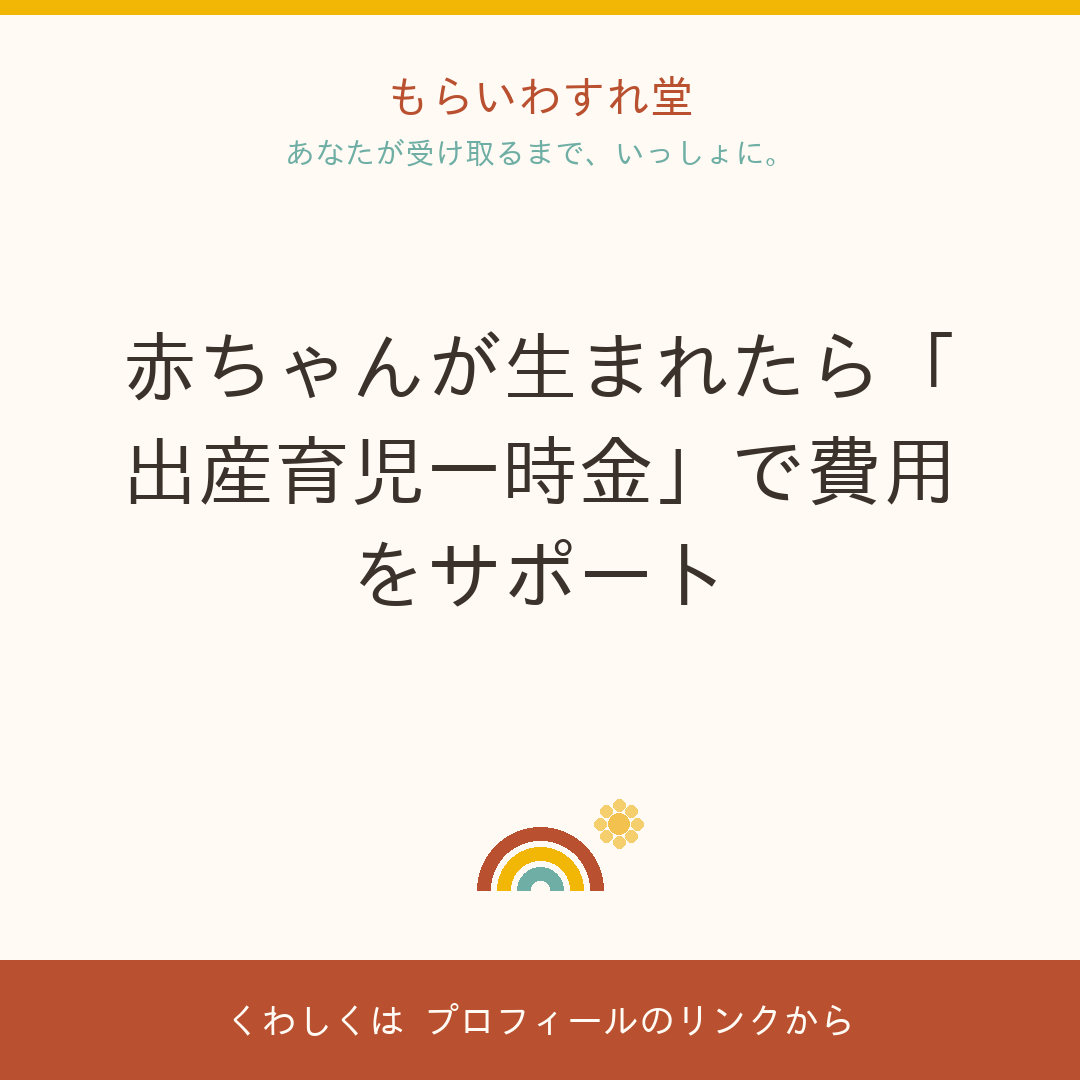
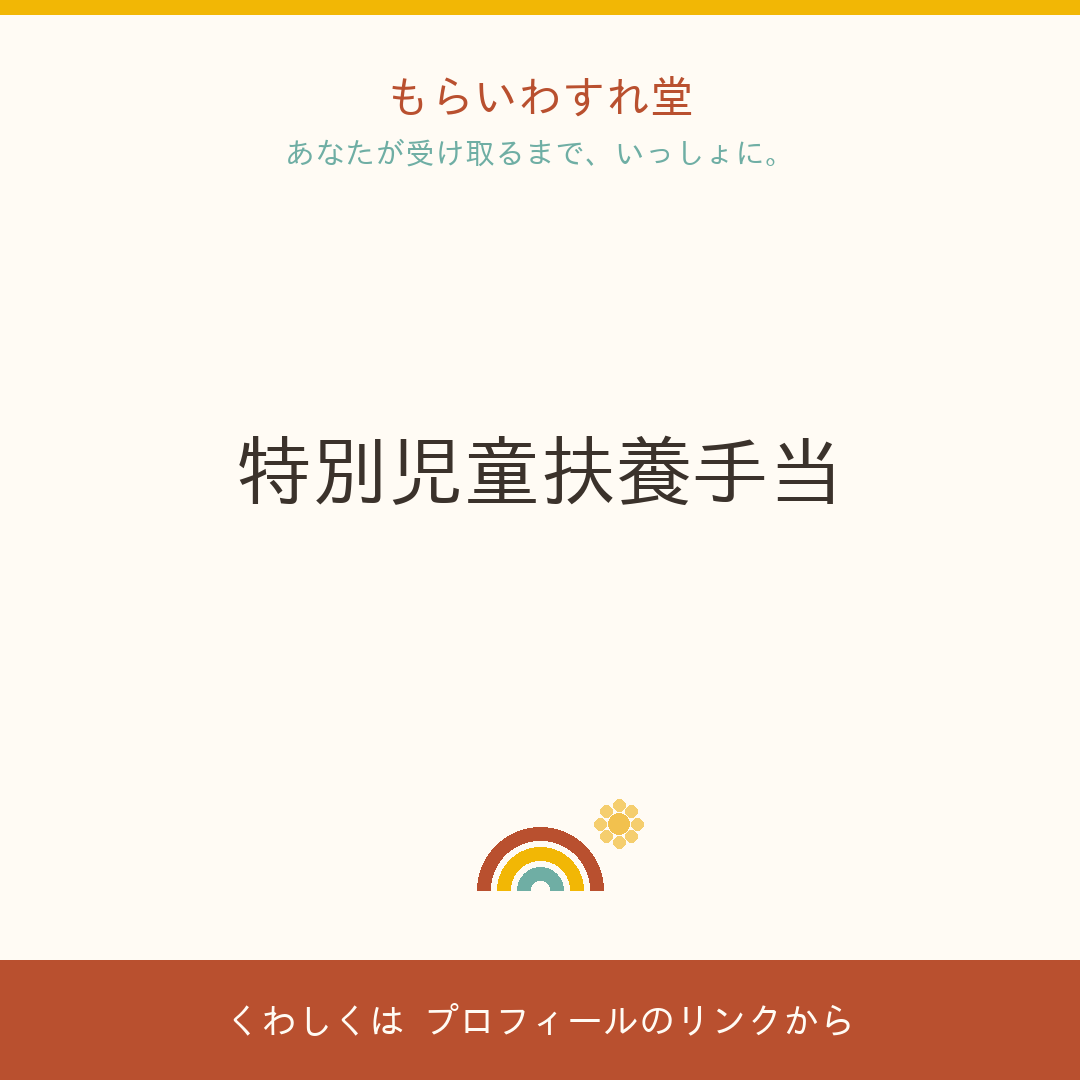
W43 Instagram投稿案提案 + 画像自動生成完了
- ig_neta.json: W43(2026-10-16)用5案を追加
  * 教育訓練給付金
  * 特別児童扶養手当
  * 雇用保険の基本手当
  * 年金生活者支援給付金
  * 生活保護制度(相談窓口)

- 画像生成: ig1-5.png + ig1-3.webp thumbnails
- Haruka参考板 (site/staff/haruka/index.html) 更新

常時型(締切なし)制度から選定し、
ig_neta.jsonの承認フロー5ステップ対応。

diff --git a/site/staff/haruka/index.html b/site/staff/haruka/index.html
@@ -35,8 +35,8 @@ h2{font-size:1.02rem;margin-bottom:10px;line-height:1.5}
 </head>
 <body>
 <div class="wrap">
-<h1>🌈 今週のIG投稿案(2026-W40)</h1>
-<p class="sub">更新: 2026-09-25 / 毎週月曜に自動更新 / このページは検索に載らない内部ページです</p>
+<h1>🌈 今週のIG投稿案(2026-W42)</h1>
+<p class="sub">更新: 2026-10-16 / 毎週月曜に自動更新 / このページは検索に載らない内部ページです</p>
 <div class="howto"><strong>遥さんの3分ルーティン(投稿画像も完成品です)</strong><br>
 ① 画像を長押しで保存 → ② 「キャプションをコピー」→ ③ Instagramに投稿(画像+キャプション貼り付け)<br>
 ④ 投稿したら、<b>投稿案メールに返信</b>で「案1 投稿した」と一言(使わない案は「案4 なし」)<br><span style="color:#B9502F">※LINEはこちらから送る専用で、返信を受け取れません</span><br>
@@ -45,68 +45,68 @@ h2{font-size:1.02rem;margin-bottom:10px;line-height:1.5}
 
 <div class="card">
   <div class="no">案1</div>
-  <h2>「高等教育の修学支援新制度」、進学前に知っておこう</h2>
+  <h2>教育訓練給付金</h2>
   <img class="igimg" src="img/ig1.png" alt="投稿画像 案1">
   <p class="hint">🖼 画像はこのまま使えます: 長押し(PCは右クリック)→保存→Instagramへ</p>
-  <div class="facts ok"><b>✅ 原文と照合ずみです(2026-08-06時点)</b><p>ここに書いてある範囲は、こちらで公式ページと突き合わせています。改めて読み直さずに使っていただいて大丈夫です。<br>ただし<b>「要確認」と書いてある項目だけは断定しないでください</b>(制度はあるが、金額や条件までは詰め切れていない、という意味です)。</p><dl><dt>制度名</dt><dd>高等教育の修学支援新制度(授業料等減免・給付型奨学金)</dd><dt>どこの制度か</dt><dd>文部科学省</dd><dt>だれが対象か</dt><dd>大学・短大・高専・専門学校に進学する(在学中の)お子さんがいる世帯が対象となる可能性があります(2025年度から多子世帯の拡充があります)</dd><dt>いくら</dt><dd>給付型奨学金(返還不要)と授業料・入学金の減免をセットで受けられる場合があります。世帯年収の目安は約600万円まで、令和7年度からは扶養する子3人以上の多子世帯は所得制限なく減免の対象になる場合があります(要確認)</dd><dt>どこへ申し込むか</dt><dd>在学校・進学先を通じた申込み(日本学生支援機構)</dd><dt>いつまで</dt><dd>常時</dd></dl></div>
-  <div class="cap" id="cap1">大学・短大・高専・専門学校への進学を考えている方へ。「高等教育の修学支援新制度」は、給付型奨学金(返還不要)と授業料・入学金の減免をセットで受けられる制度です。対象になる可能性があります。令和7年度からは、3人以上のお子さんがいるご家庭の所得制限が緩和される場合があります。進学先の学校で相談できます。「うちは対象かな?」と思ったら、まず公式ページを見てみてください。
+  <div class="facts ok"><b>✅ 原文と照合ずみです(2026-07-22時点)</b><p>ここに書いてある範囲は、こちらで公式ページと突き合わせています。改めて読み直さずに使っていただいて大丈夫です。<br>ただし<b>「要確認」と書いてある項目だけは断定しないでください</b>(制度はあるが、金額や条件までは詰め切れていない、という意味です)。</p><dl><dt>制度名</dt><dd>教育訓練給付金</dd><dt>どこの制度か</dt><dd>厚生労働省・ハローワーク</dd><dt>だれが対象か</dt><dd>働きながら(または離職後に)資格取得やスキルアップを目指す方が対象となる可能性があります</dd><dt>いくら</dt><dd>要確認(公式ページでご確認ください)</dd><dt>どこへ申し込むか</dt><dd>ハローワーク</dd><dt>いつまで</dt><dd>常時</dd></dl></div>
+  <div class="cap" id="cap1">教育訓練給付金についてのご案内です。働きながら(または離職後に)資格取得やスキルアップを目指す方が対象となる可能性があります。ハローワークへご相談ください。細かい条件は年度で変わることがあるので、このページでご確認ください。「うちは対象かな?」と思ったら、まず窓口か公式ページを見てみてください。
 
-#もらいわすれ堂 #沖縄 #教育 #給付金 #修学支援</div>
+#もらいわすれ堂 #沖縄 #仕事・失業</div>
   <button class="copy" data-t="cap1">キャプションをコピー</button>
-  <p class="caution">⚠ 投稿前の注意: 金額・期限・対象条件は本文に書かない。「対象になる可能性があります」の言い方を崩さない。制度ID fk-kuni-shugaku-shien<br>
-  出典: <a href="https://www.mext.go.jp/kyufu/" rel="noopener" target="_blank">公式ページを開く</a></p>
+  <p class="caution">⚠ 投稿前の注意: 金額・期限・対象条件は本文に書かない。「対象になる可能性があります」の言い方を崩さない。<br>
+  出典: <a href="https://www.mhlw.go.jp/stf/seisakunitsuite/bunya/koyou_roudou/jinzaikaihatsu/kyouiku.html" rel="noopener" target="_blank">公式ページを開く</a></p>
 </div>
 <div class="card">
   <div class="no">案2</div>
-  <h2>「高等学校等就学支援金」、高校の費用が減ります</h2>
+  <h2>特別児童扶養手当</h2>
   <img class="igimg" src="img/ig2.png" alt="投稿画像 案2">
   <p class="hint">🖼 画像はこのまま使えます: 長押し(PCは右クリック)→保存→Instagramへ</p>
-  <div class="facts ok"><b>✅ 原文と照合ずみです(2026-09-25時点)</b><p>ここに書いてある範囲は、こちらで公式ページと突き合わせています。改めて読み直さずに使っていただいて大丈夫です。<br>ただし<b>「要確認」と書いてある項目だけは断定しないでください</b>(制度はあるが、金額や条件までは詰め切れていない、という意味です)。</p><dl><dt>制度名</dt><dd>高等学校等就学支援金</dd><dt>どこの制度か</dt><dd>文部科学省</dd><dt>だれが対象か</dt><dd>高校生のいるご家庭が対象となる可能性があります</dd><dt>いくら</dt><dd>要確認(公式ページでご確認ください)</dd><dt>どこへ申し込むか</dt><dd>在学している高校で申請</dd><dt>いつまで</dt><dd>常時</dd></dl></div>
-  <div class="cap" id="cap2">高校生のいるご家庭に知ってほしい制度です。「高等学校等就学支援金」。授業料負担を軽くするための支援です。一定の収入未満の世帯が対象になることがあります。在学している高校で申請できます。金額や細かい条件は年度で変わることがあるので、このページでご確認ください。「うちは対象かな?」と思ったら、まず学校か公式ページでご確認ください。
+  <div class="facts ok"><b>✅ 原文と照合ずみです(2026-07-23時点)</b><p>ここに書いてある範囲は、こちらで公式ページと突き合わせています。改めて読み直さずに使っていただいて大丈夫です。<br>ただし<b>「要確認」と書いてある項目だけは断定しないでください</b>(制度はあるが、金額や条件までは詰め切れていない、という意味です)。</p><dl><dt>制度名</dt><dd>特別児童扶養手当</dd><dt>どこの制度か</dt><dd>厚生労働省</dd><dt>だれが対象か</dt><dd>障がいのあるお子さん(20歳未満)を育てている世帯が対象となる可能性があります</dd><dt>いくら</dt><dd>要確認(公式ページでご確認ください)</dd><dt>どこへ申し込むか</dt><dd>お住まいの市区町村の窓口</dd><dt>いつまで</dt><dd>常時</dd></dl></div>
+  <div class="cap" id="cap2">特別児童扶養手当についてのご案内です。障がいのあるお子さん(20歳未満)を育てている世帯が対象となる可能性があります。お住まいの市区町村の窓口へご相談ください。細かい条件は年度で変わることがあるので、このページでご確認ください。「うちは対象かな?」と思ったら、まず窓口か公式ページを見てみてください。
 
-#もらいわすれ堂 #沖縄 #教育 #高校 #就学支援</div>
+#もらいわすれ堂 #沖縄 #子育て</div>
   <button class="copy" data-t="cap2">キャプションをコピー</button>
-  <p class="caution">⚠ 投稿前の注意: 金額・期限・対象条件は本文に書かない。「対象になることがあります」の言い方を崩さない。制度ID fk-kuni-shotoku-shien<br>
-  出典: <a href="https://www.mext.go.jp/a_menu/shotou/mushouka/index.htm" rel="noopener" target="_blank">公式ページを開く</a></p>
+  <p class="caution">⚠ 投稿前の注意: 金額・期限・対象条件は本文に書かない。「対象になる可能性があります」の言い方を崩さない。<br>
+  出典: <a href="https://www.mhlw.go.jp/bunya/shougaihoken/jidou/huyou.html" rel="noopener" target="_blank">公式ページを開く</a></p>
 </div>
 <div class="card">
   <div class="no">案3</div>
-  <h2>「特別児童扶養手当」、お子さんの障害をサポート</h2>
+  <h2>雇用保険の基本手当(失業給付)</h2>
   <img class="igimg" src="img/ig3.png" alt="投稿画像 案3">
   <p class="hint">🖼 画像はこのまま使えます: 長押し(PCは右クリック)→保存→Instagramへ</p>
-  <div class="facts ok"><b>✅ 原文と照合ずみです(2026-09-25時点)</b><p>ここに書いてある範囲は、こちらで公式ページと突き合わせています。改めて読み直さずに使っていただいて大丈夫です。<br>ただし<b>「要確認」と書いてある項目だけは断定しないでください</b>(制度はあるが、金額や条件までは詰め切れていない、という意味です)。</p><dl><dt>制度名</dt><dd>特別児童扶養手当</dd><dt>どこの制度か</dt><dd>厚生労働省</dd><dt>だれが対象か</dt><dd>一定の障害状態にあるお子さんを育てている方が対象となる可能性があります</dd><dt>いくら</dt><dd>要確認(公式ページでご確認ください)</dd><dt>どこへ申し込むか</dt><dd>お住まいの市区町村の窓口</dd><dt>いつまで</dt><dd>常時</dd></dl></div>
-  <div class="cap" id="cap3">障害のあるお子さんを育てているご家庭に、支援があります。「特別児童扶養手当」。一定の障害状態にあるお子さんを育てている方が対象になることがあります。申し込みの窓口はお住まいの市区町村の窓口。金額や細かい条件は年度で変わることがあるので、このページでご確認ください。「うちは対象かな?」と思ったら、まず公式ページを見てみてください。
+  <div class="facts ok"><b>✅ 原文と照合ずみです(2026-07-23時点)</b><p>ここに書いてある範囲は、こちらで公式ページと突き合わせています。改めて読み直さずに使っていただいて大丈夫です。<br>ただし<b>「要確認」と書いてある項目だけは断定しないでください</b>(制度はあるが、金額や条件までは詰め切れていない、という意味です)。</p><dl><dt>制度名</dt><dd>雇用保険の基本手当(失業給付)</dd><dt>どこの制度か</dt><dd>厚生労働省・ハローワーク</dd><dt>だれが対象か</dt><dd>離職して求職活動をしている、雇用保険に加入していた方が対象となる可能性があります</dd><dt>いくら</dt><dd>要確認(公式ページでご確認ください)</dd><dt>どこへ申し込むか</dt><dd>ハローワーク</dd><dt>いつまで</dt><dd>常時</dd></dl></div>
+  <div class="cap" id="cap3">雇用保険の基本手当(失業給付)についてのご案内です。離職して求職活動をしている、雇用保険に加入していた方が対象となる可能性があります。ハローワークへご相談ください。細かい条件は年度で変わることがあるので、このページでご確認ください。「うちは対象かな?」と思ったら、まず窓口か公式ページを見てみてください。
 
-#もらいわすれ堂 #沖縄 #子育て #障害児 #特別児童扶養手当</div>
+#もらいわすれ堂 #沖縄 #仕事・失業</div>
   <button class="copy" data-t="cap3">キャプションをコピー</button>
-  <p class="caution">⚠ 投稿前の注意: 金額・期限・対象条件は本文に書かない。「対象になることがあります」の言い方を崩さない。制度ID fk-kuni-shogaiji-kyufu<br>
-  出典: <a href="https://www.mhlw.go.jp/stf/seisakunitsuite/bunya/kodomo_kosodate/kodomo_kosodate_top/tokubetukodumo.html" rel="noopener" target="_blank">公式ページを開く</a></p>
+  <p class="caution">⚠ 投稿前の注意: 金額・期限・対象条件は本文に書かない。「対象になる可能性があります」の言い方を崩さない。<br>
+  出典: <a href="https://www.hellowork.mhlw.go.jp/insurance/insurance_basicbenefit.html" rel="noopener" target="_blank">公式ページを開く</a></p>
 </div>
 <div class="card">
   <div class="no">案4</div>
-  <h2>「障害児福祉手当」、毎月のサポート</h2>
+  <h2>年金生活者支援給付金</h2>
   <img class="igimg" src="img/ig4.png" alt="投稿画像 案4">
   <p class="hint">🖼 画像はこのまま使えます: 長押し(PCは右クリック)→保存→Instagramへ</p>
-  <div class="facts ok"><b>✅ 原文と照合ずみです(2026-09-25時点)</b><p>ここに書いてある範囲は、こちらで公式ページと突き合わせています。改めて読み直さずに使っていただいて大丈夫です。<br>ただし<b>「要確認」と書いてある項目だけは断定しないでください</b>(制度はあるが、金額や条件までは詰め切れていない、という意味です)。</p><dl><dt>制度名</dt><dd>障害児福祉手当</dd><dt>どこの制度か</dt><dd>厚生労働省</dd><dt>だれが対象か</dt><dd>在宅で一定の障害状態にあるお子さんのケアをしている世帯が対象となる可能性があります</dd><dt>いくら</dt><dd>要確認(公式ページでご確認ください)</dd><dt>どこへ申し込むか</dt><dd>お住まいの市区町村の窓口</dd><dt>いつまで</dt><dd>常時</dd></dl></div>
-  <div class="cap" id="cap4">在宅で障害児のケアをしているご家庭へ。「障害児福祉手当」は、一定の障害状態にあるお子さんを育てている世帯が対象になることがあります。申し込みの窓口はお住まいの市区町村の窓口。手当の金額は月単位で支給されます。金額や細かい条件は年度で変わることがあるので、このページでご確認ください。「うちは対象かな?」と思ったら、まず公式ページを見てみてください。
+  <div class="facts ok"><b>✅ 原文と照合ずみです(2026-07-23時点)</b><p>ここに書いてある範囲は、こちらで公式ページと突き合わせています。改めて読み直さずに使っていただいて大丈夫です。<br>ただし<b>「要確認」と書いてある項目だけは断定しないでください</b>(制度はあるが、金額や条件までは詰め切れていない、という意味です)。</p><dl><dt>制度名</dt><dd>年金生活者支援給付金</dd><dt>どこの制度か</dt><dd>厚生労働省</dd><dt>だれが対象か</dt><dd>年金を受給していて所得が一定以下の方が対象となる可能性があります(年金に上乗せして支給されます)</dd><dt>いくら</dt><dd>要確認(公式ページでご確認ください)</dd><dt>どこへ申し込むか</dt><dd>日本年金機構(年金事務所)への請求</dd><dt>いつまで</dt><dd>常時</dd></dl></div>
+  <div class="cap" id="cap4">年金生活者支援給付金についてのご案内です。年金を受給していて所得が一定以下の方が対象となる可能性があります(年金に上乗せして支給されます)。日本年金機構(年金事務所)への請求へご相談ください。細かい条件は年度で変わることがあるので、このページでご確認ください。「うちは対象かな?」と思ったら、まず窓口か公式ページを見てみてください。
 
-#もらいわすれ堂 #沖縄 #障害児 #福祉 #生活支援</div>
+#もらいわすれ堂 #沖縄 #生活支援</div>
   <button class="copy" data-t="cap4">キャプションをコピー</button>
-  <p class="caution">⚠ 投稿前の注意: 金額・期限・対象条件は本文に書かない。「対象になることがあります」の言い方を崩さない。制度ID fk-kuni-syogaisya-teate<br>
-  出典: <a href="https://www.mhlw.go.jp/stf/seisakunitsuite/bunya/kodomo_kosodate/kodomo_kosodate_top/syogaiji_fukusiteate.html" rel="noopener" target="_blank">公式ページを開く</a></p>
+  <p class="caution">⚠ 投稿前の注意: 金額・期限・対象条件は本文に書かない。「対象になる可能性があります」の言い方を崩さない。<br>
+  出典: <a href="https://www.mhlw.go.jp/nenkinkyuufukin/" rel="noopener" target="_blank">公式ページを開く</a></p>
 </div>
 <div class="card">
   <div class="no">案5</div>
-  <h2>「沖縄県 こども医療費助成制度」、医療費が減ります</h2>
+  <h2>生活保護制度(相談窓口)</h2>
   <img class="igimg" src="img/ig5.png" alt="投稿画像 案5">
   <p class="hint">🖼 画像はこのまま使えます: 長押し(PCは右クリック)→保存→Instagramへ</p>
-  <div class="facts ok"><b>✅ 原文と照合ずみです(2026-09-25時点)</b><p>ここに書いてある範囲は、こちらで公式ページと突き合わせています。改めて読み直さずに使っていただいて大丈夫です。<br>ただし<b>「要確認」と書いてある項目だけは断定しないでください</b>(制度はあるが、金額や条件までは詰め切れていない、という意味です)。</p><dl><dt>制度名</dt><dd>沖縄県 こども医療費助成制度</dd><dt>どこの制度か</dt><dd>沖縄県(市町村)</dd><dt>だれが対象か</dt><dd>沖縄県内のお子さんがいるご家庭が対象となる可能性があります</dd><dt>いくら</dt><dd>対象年齢や補助内容は市町村で異なります。要確認(公式ページでご確認ください)</dd><dt>どこへ申し込むか</dt><dd>お住まいの市町村の福祉窓口</dd><dt>いつまで</dt><dd>常時</dd></dl></div>
-  <div class="cap" id="cap5">沖縄県内のお子さんがいるご家庭に朗報です。「沖縄県 こども医療費助成制度」。お子さんの医療費の一部または全部を補助する制度です。対象年齢や補助内容はお住まいの市町村で異なるので、詳しくはお住まいの市町村の福祉窓口でご確認ください。金額や細かい条件は年度で変わることがあるので、このページでご確認ください。「うちは対象かな?」と思ったら、まず市町村窓口か公式ページを見てみてください。
+  <div class="facts ok"><b>✅ 原文と照合ずみです(2026-07-23時点)</b><p>ここに書いてある範囲は、こちらで公式ページと突き合わせています。改めて読み直さずに使っていただいて大丈夫です。<br>ただし<b>「要確認」と書いてある項目だけは断定しないでください</b>(制度はあるが、金額や条件までは詰め切れていない、という意味です)。</p><dl><dt>制度名</dt><dd>生活保護制度(相談窓口)</dd><dt>どこの制度か</dt><dd>厚生労働省</dd><dt>だれが対象か</dt><dd>収入や資産だけでは生活が難しい世帯のための、最後のセーフティネットの相談窓口です。ためらわずに相談できます</dd><dt>いくら</dt><dd>要確認(公式ページでご確認ください)</dd><dt>どこへ申し込むか</dt><dd>お住まいの地域の福祉事務所</dd><dt>いつまで</dt><dd>常時</dd></dl></div>
+  <div class="cap" id="cap5">生活保護制度(相談窓口)についてのご案内です。収入や資産だけでは生活が難しい世帯のための、最後のセーフティネットの相談窓口です。ためらわずに相談できます。お住まいの地域の福祉事務所へご相談ください。細かい条件は年度で変わることがあるので、このページでご確認ください。「うちは対象かな?」と思ったら、まず窓口か公式ページを見てみてください。
 
-#もらいわすれ堂 #沖縄 #医療費 #子育て #こども医療費助成</div>
+#もらいわすれ堂 #沖縄 #生活支援</div>
   <button class="copy" data-t="cap5">キャプションをコピー</button>
-  <p class="caution">⚠ 投稿前の注意: 金額・期限・対象条件は本文に書かない。「対象になる可能性があります」の言い方を崩さない。制度ID fk-okinawa-kokoro-iryo。市町村の個別制度との併給・重複を確認させる言い方が重要。<br>
-  出典: <a href="https://www.pref.okinawa.lg.jp/iryokenko/iryo/1006488/1006512.html" rel="noopener" target="_blank">公式ページを開く</a></p>
+  <p class="caution">⚠ 投稿前の注意: 金額・期限・対象条件は本文に書かない。「対象になる可能性があります」の言い方を崩さない。<br>
+  出典: <a href="https://www.mhlw.go.jp/stf/seisakunitsuite/bunya/hukushi_kaigo/seikatsuhogo/seikatuhogo/index.html" rel="noopener" target="_blank">公式ページを開く</a></p>
 </div>
 <p class="sub">投稿の最終判断は遥さん・小柳さんにお任せします(ここは提案まで)。文面の相談はチャットへいつでもどうぞ。</p>
 </div>
